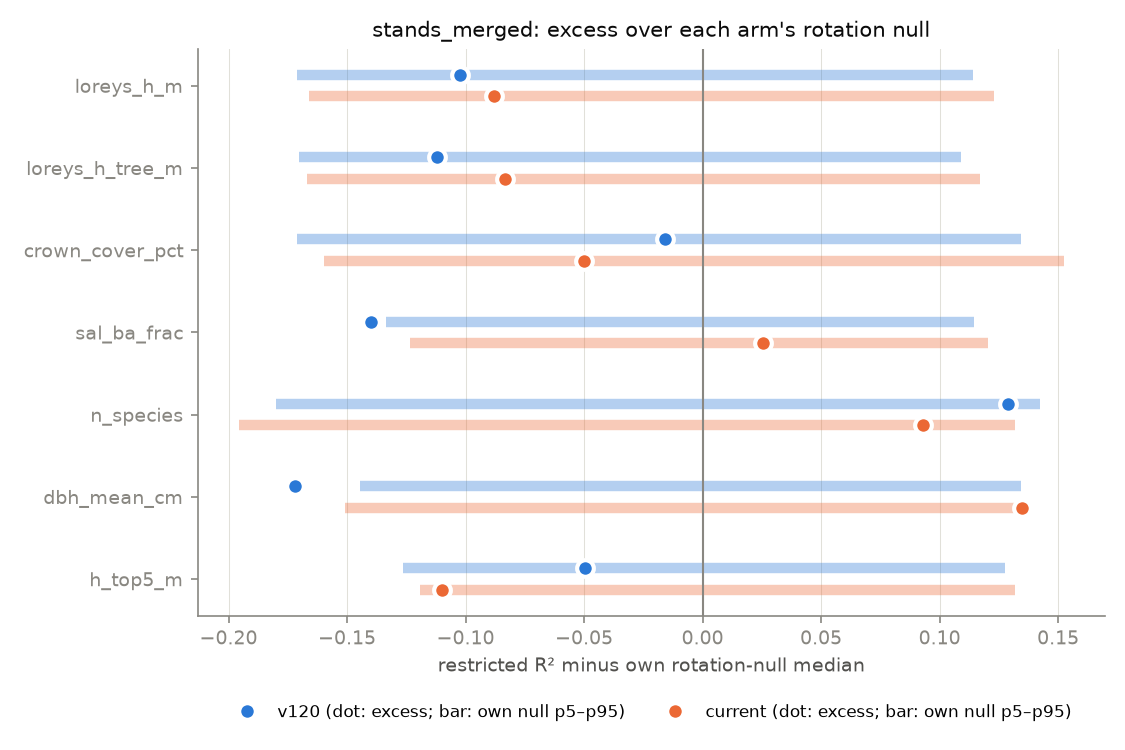
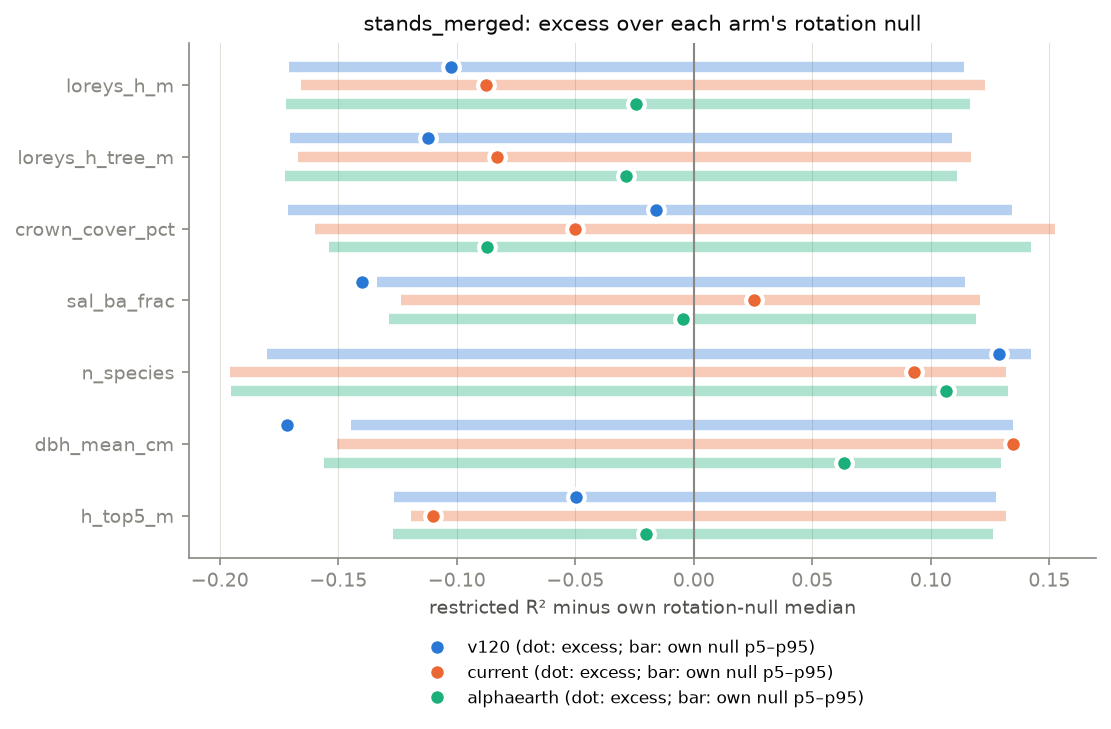
Arms figure: stop clipping the three-arm legend
With the AlphaEarth arm added, three legend entries side by side ran past the
figure width and were cut off at both edges. The legend is now one entry per
row, and the figure is saved with bbox_inches='tight', because the legend sits
below the axes, outside what tight_layout accounts for.

Rerunning the pilot stats regenerated the figure. The summary CSV is
byte-identical to 09369f8; the results text differs only in runtimes.

Changed region(s): [[0.0, 0.0604, 0.9793, 0.9657], [0.2448, 0.0, 0.8875, 0.1509]]

diff --git a/odisha_script/odisha_phase2_5_stats.py b/odisha_script/odisha_phase2_5_stats.py
@@ -1291,10 +1291,12 @@ def figures(results: dict, suffix: str, out_dir: Path = HERE) -> None:
         ax.set_xlabel("restricted R² minus own rotation-null median", color=INK2)
         ax.grid(axis="x", color=GRID, linewidth=0.5)
         ax.spines[["top", "right"]].set_visible(False)
-        ax.legend(frameon=False, fontsize=8, loc="upper center", bbox_to_anchor=(0.5, -0.13), ncol=len(arms))
+        # One entry per row: three arm labels side by side overflowed the figure width and were clipped.
+        ax.legend(frameon=False, fontsize=8, loc="upper center", bbox_to_anchor=(0.5, -0.13), ncol=1)
         ax.set_title("stands_merged: excess over each arm's rotation null", color=INK, fontsize=10)
         fig.tight_layout()
-        fig.savefig(out_dir / f"odisha_phase2_5_arms_excess{suffix}.png", dpi=150)
+        # bbox_inches="tight": the legend sits below the axes, outside what tight_layout accounts for.
+        fig.savefig(out_dir / f"odisha_phase2_5_arms_excess{suffix}.png", dpi=150, bbox_inches="tight")
         plt.close(fig)
     # (c) 6.2 primary: per band observed diff vs null p5-p95
     if ("v120", "merged") in results:
